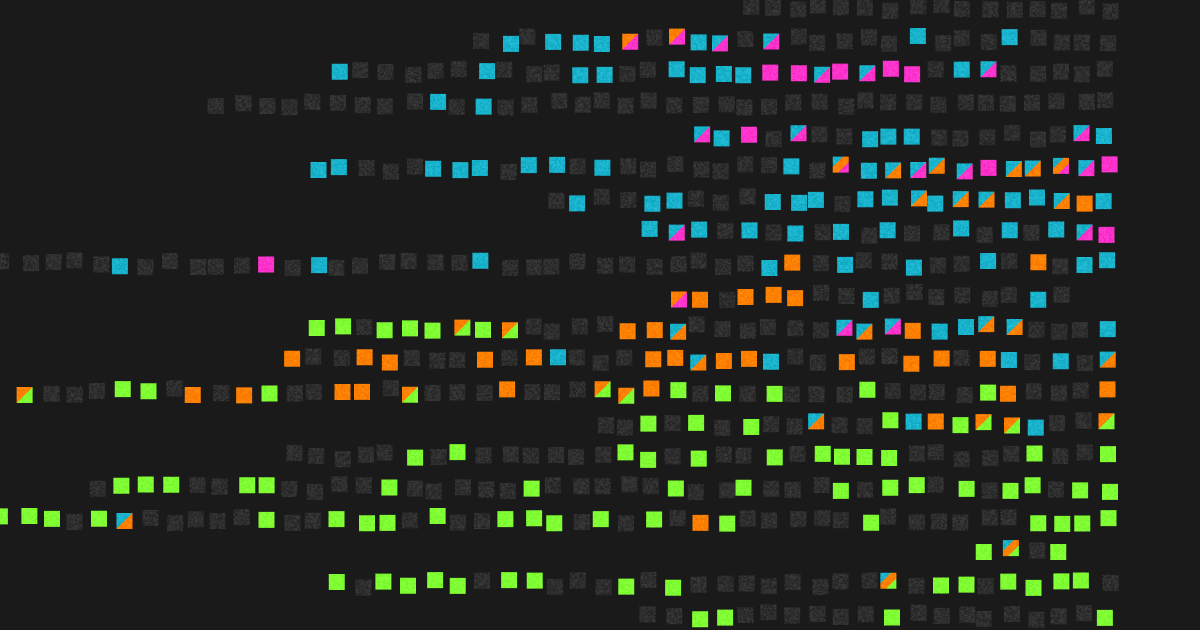
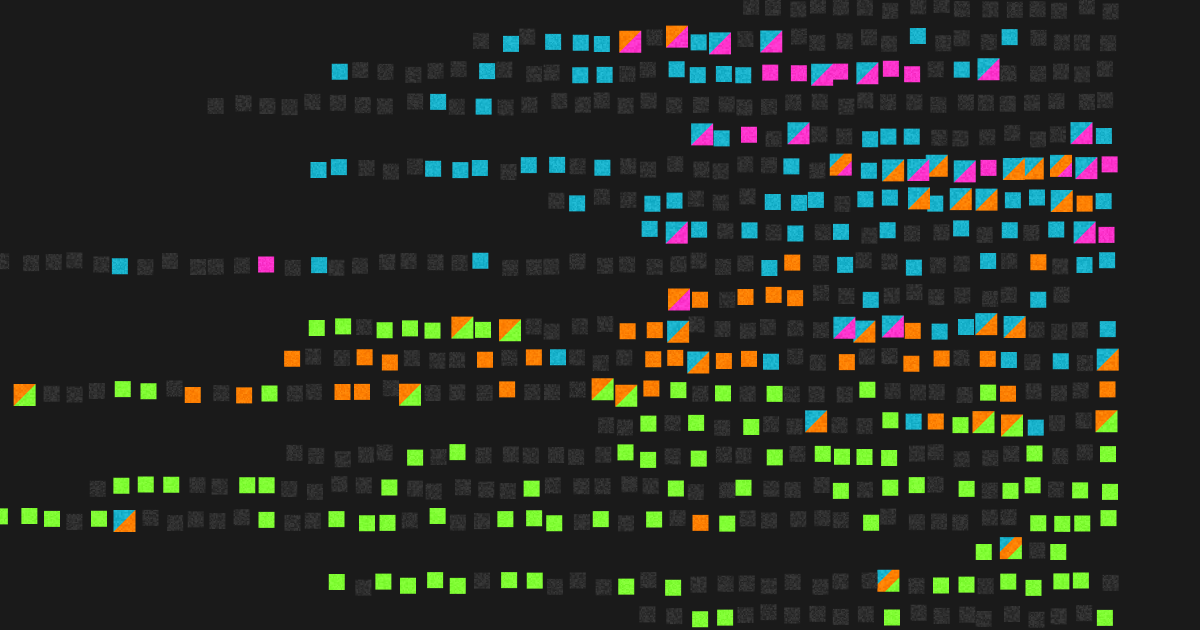
Grow multi-colour verses 0.75 units on every side
Zoomed out, a split verse's bands blur into one colour and it looked like
any other hit. Growing it slightly makes verses several terms hit (or
several haftarah readings share) stand out from single hits at every
zoom. 0.75 keeps a gap between neighbours; 0.5 was too subtle zoomed out,
and 1 closed the gap. Design note and images updated.

Claude-Session: https://claude.ai/code/session_018rmRJhfmJw1i3StbZToHqx

diff --git a/src/__tests__/unit/geometry.test.ts b/src/__tests__/unit/geometry.test.ts
@@ -88,14 +88,26 @@ describe('buildItemGeometry', () => {
       expect(buffer[floatsPerVertex]).toBe(expectedX);
     });
 
-    it('draws a multi-color verse in exactly its own square', () => {
+    it('grows a multi-color verse by less than half the gap, so neighbours never touch', () => {
       const verse = createVerse({ x: 100, y: 200, size: 10 });
       const buffer = buildItemGeometry([verse], [[TEST_COLORS.RED, TEST_COLORS.BLUE]]);
 
-      expect(buffer[0]).toBe(100); // top-left x
-      expect(buffer[1]).toBe(200); // top-left y
-      expect(buffer[floatsPerVertex * 5]).toBe(108); // bottom-right x
-      expect(buffer[floatsPerVertex * 5 + 1]).toBe(208); // bottom-right y
+      const left = buffer[0];
+      const right = buffer[floatsPerVertex * 5];
+      const growth = 100 - left;
+      expect(growth).toBeGreaterThan(0);
+      expect(growth).toBeLessThan(1); // the gap between squares is 2
+      expect(right).toBe(108 + growth);
+      expect(buffer[1]).toBe(200 - growth); // top
+      expect(buffer[floatsPerVertex * 5 + 1]).toBe(208 + growth); // bottom
+    });
+
+    it('keeps a single-color verse to exactly its own square', () => {
+      const verse = createVerse({ x: 100, y: 200, size: 10 });
+      const buffer = buildItemGeometry([verse], [TEST_COLORS.RED]);
+
+      expect(buffer[0]).toBe(100);
+      expect(buffer[floatsPerVertex * 5]).toBe(108);
     });
 
     it('handles different verse sizes correctly', () => {

diff --git a/src/geometry.ts b/src/geometry.ts
@@ -16,6 +16,11 @@ function isColorArray(color: Color | Color[] | undefined): color is Color[] {
 // says what it means here.
 const DEFAULT_FILL_COLOR: Color = HIGHLIGHT_CONSTANTS.OUTLINE_COLOR;
 
+// World units a verse with several colors grows on every side, so it stands
+// out from single-color verses when zoomed out. Squares sit 2 units apart, so
+// up to 1 keeps a gap between neighbours.
+const MULTICOLOR_GROWTH = 0.75;
+
 export function buildItemGeometry<T>(
   verses: SpatialItem<T>[],
   colors?: (Color | Color[])[],
@@ -43,10 +48,11 @@ export function buildItemGeometry<T>(
     }
     const colorCount = vertexColors.length;
 
-    const x0 = v.x;
-    const y0 = v.y;
-    const x1 = v.x + v.size - 2; // -2 for gap
-    const y1 = v.y + v.size - 2;
+    const grow = colorCount > 1 ? MULTICOLOR_GROWTH : 0;
+    const x0 = v.x - grow;
+    const y0 = v.y - grow;
+    const x1 = v.x + v.size - 2 + grow; // -2 for gap
+    const y1 = v.y + v.size - 2 + grow;
 
     // Pad to 4 colors with black
     while (vertexColors.length < 4) {

diff --git a/docs/plans/2026-09-24-multi-hit-verses.md b/docs/plans/2026-09-24-multi-hit-verses.md
@@ -15,20 +15,33 @@ made multi-hit verses look more important than single hits.
 ## What we wanted
 
 - Every hit visible on its own square, even from a distance.
-- No extra weight for a verse several terms hit.
-- Still clear that there are several.
+- Verses several terms hit told apart from single hits, even from a distance.
+- No black gaps, no static, nothing that reads as swollen.
 
 ## The decision
 
-A multi-colour verse keeps exactly its own square, split corner to corner into
-one band per colour. Single hits are unchanged. This is the shared shader, so
-Haftarah's multi-item verses get the same treatment.
+A multi-colour verse is split corner to corner into one band per colour, and
+grows by 0.75 units on every side: a 5.5-unit square among 4-unit ones. Single
+hits are unchanged. This is the shared shader and geometry, so Haftarah's
+multi-item verses get the same treatment.
 
 ![After, Genesis at zoom 4](images/2026-09-24-multi-hit-verses/after-close.png)
 ![After, three-term verses in Exodus 3–6](images/2026-09-24-multi-hit-verses/after-exodus.png)
 
 A diagonal cut, not a vertical one: a square split down the middle reads as two
 neighbouring verses.
+
+The growth is what marks a verse as multi-hit when zoomed out, where its bands
+blur into one colour. Without it, multi-hit verses were indistinguishable from
+single hits at the whole-Torah zoom. The gap between squares is 2 units, so
+growth under 1 never touches a neighbour; 0.5 was too subtle zoomed out, and 1
+closed the gap.
+
+![Growth compared: none, 0.5, 0.75, 1](images/2026-09-24-multi-hit-verses/growth-compared.jpg)
+
+| Before, whole Torah | After, whole Torah |
+| --- | --- |
+| ![](images/2026-09-24-multi-hit-verses/before-wide.png) | ![](images/2026-09-24-multi-hit-verses/after-wide.png) |
 
 ## What we tried
 
@@ -45,7 +58,9 @@ prototype is on branch `multi-hit-246-prototype`, every style behind
 - **Growing every hit, with a speckled halo, a solid edge or a translucent
   glow.** The gap between squares is two units, a couple of screen pixels at
   the zooms that matter. Anything drawn there reads as the square being bigger
-  or blurrier, never as a halo: every version looked swollen or static.
+  or blurrier, never as a halo: every version looked swollen or static. Size
+  only helps as a signal when it marks the difference, which is why the
+  shipped design grows multi-hit verses alone.
 - **An edge a fixed number of screen pixels wide.** Holds up best of the
   growing kind, but still adds an outline nobody asked for.
 
